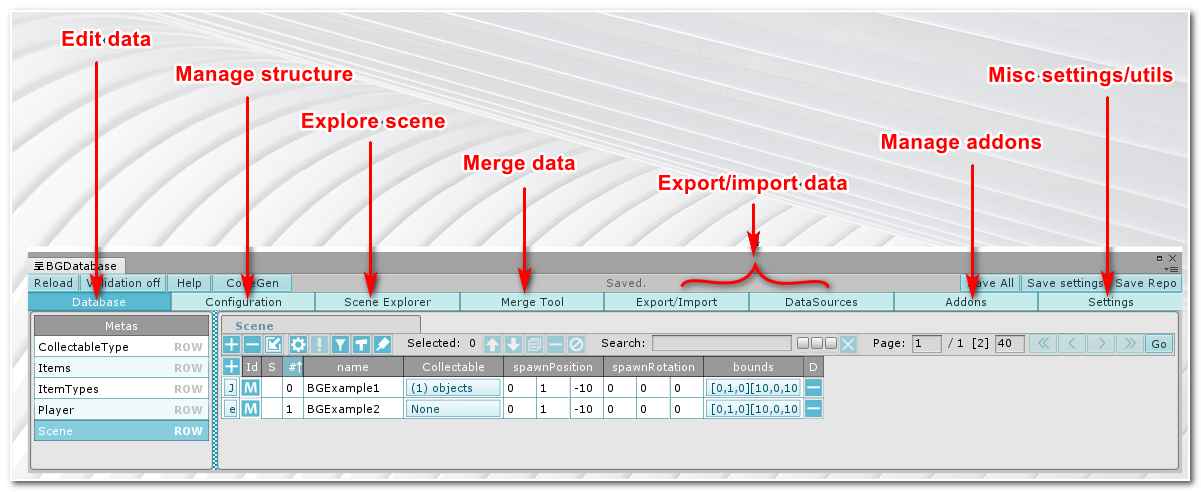
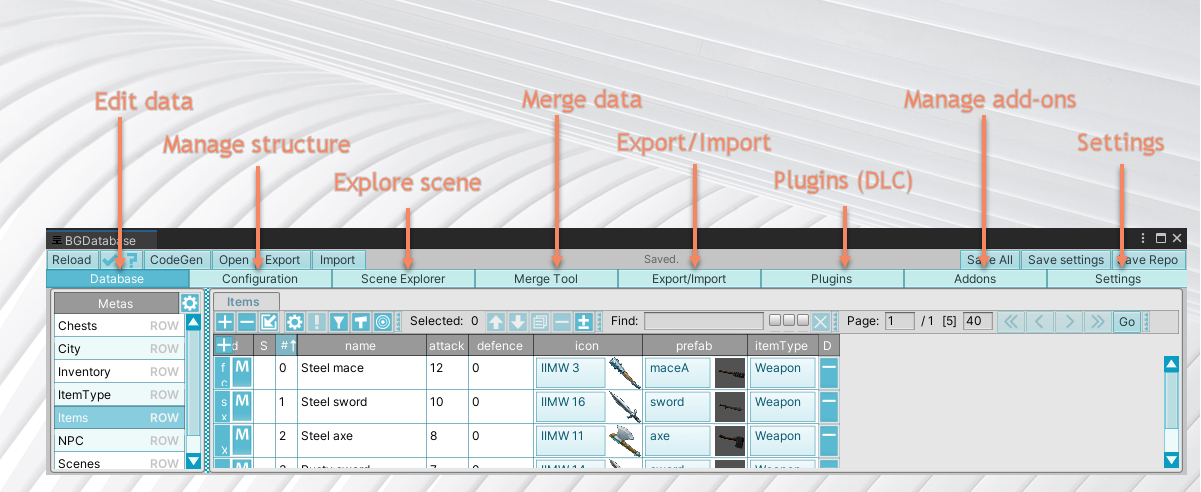
GUI overview page aupdate

diff --git a/BGDatabase/GUIOverview/index.html b/BGDatabase/GUIOverview/index.html
@@ -348,9 +348,17 @@
 </div>
 
 
+<h4>Plugins tab</h4>
+<p>
+    Plugins are free downloadable content (DLC), providing additional functionality. See the list of available plugins <a href="../Downloads">here</a>
+</p>
+<div class="bg-image">
+    <a href="../../images/BGDatabase/Interface8.png"><img style="width: 400px" src="../../images/BGDatabase/Interface8.png"></a>
+</div>
+
 <h4>Addons tab</h4>
 <p>
-    Addons extend database functionality. See the list of available addons <a href="../Addons">here</a>
+    Addons extend database functionality. Unlike plugins, they do not require to download additional content. See the list of available addons <a href="../Addons">here</a>
 </p>
 <div class="bg-image">
     <a href="../../images/BGDatabase/Interface6.png"><img style="width: 400px" src="../../images/BGDatabase/Interface6.png"></a>

diff --git a/src/templates/BGDatabase/GUIOverview/index.html b/src/templates/BGDatabase/GUIOverview/index.html
@@ -44,9 +44,17 @@
 </div>
 
 
+<h4>Plugins tab</h4>
+<p>
+    Plugins are free downloadable content (DLC), providing additional functionality. See the list of available plugins <a href="../Downloads">here</a>
+</p>
+<div class="bg-image">
+    <a href="#path images/BGDatabase/Interface8.png"><img style="width: 400px" src="#path images/BGDatabase/Interface8.png"></a>
+</div>
+
 <h4>Addons tab</h4>
 <p>
-    Addons extend database functionality. See the list of available addons <a href="../Addons">here</a>
+    Addons extend database functionality. Unlike plugins, they do not require to download additional content. See the list of available addons <a href="../Addons">here</a>
 </p>
 <div class="bg-image">
     <a href="#path images/BGDatabase/Interface6.png"><img style="width: 400px" src="#path images/BGDatabase/Interface6.png"></a>
